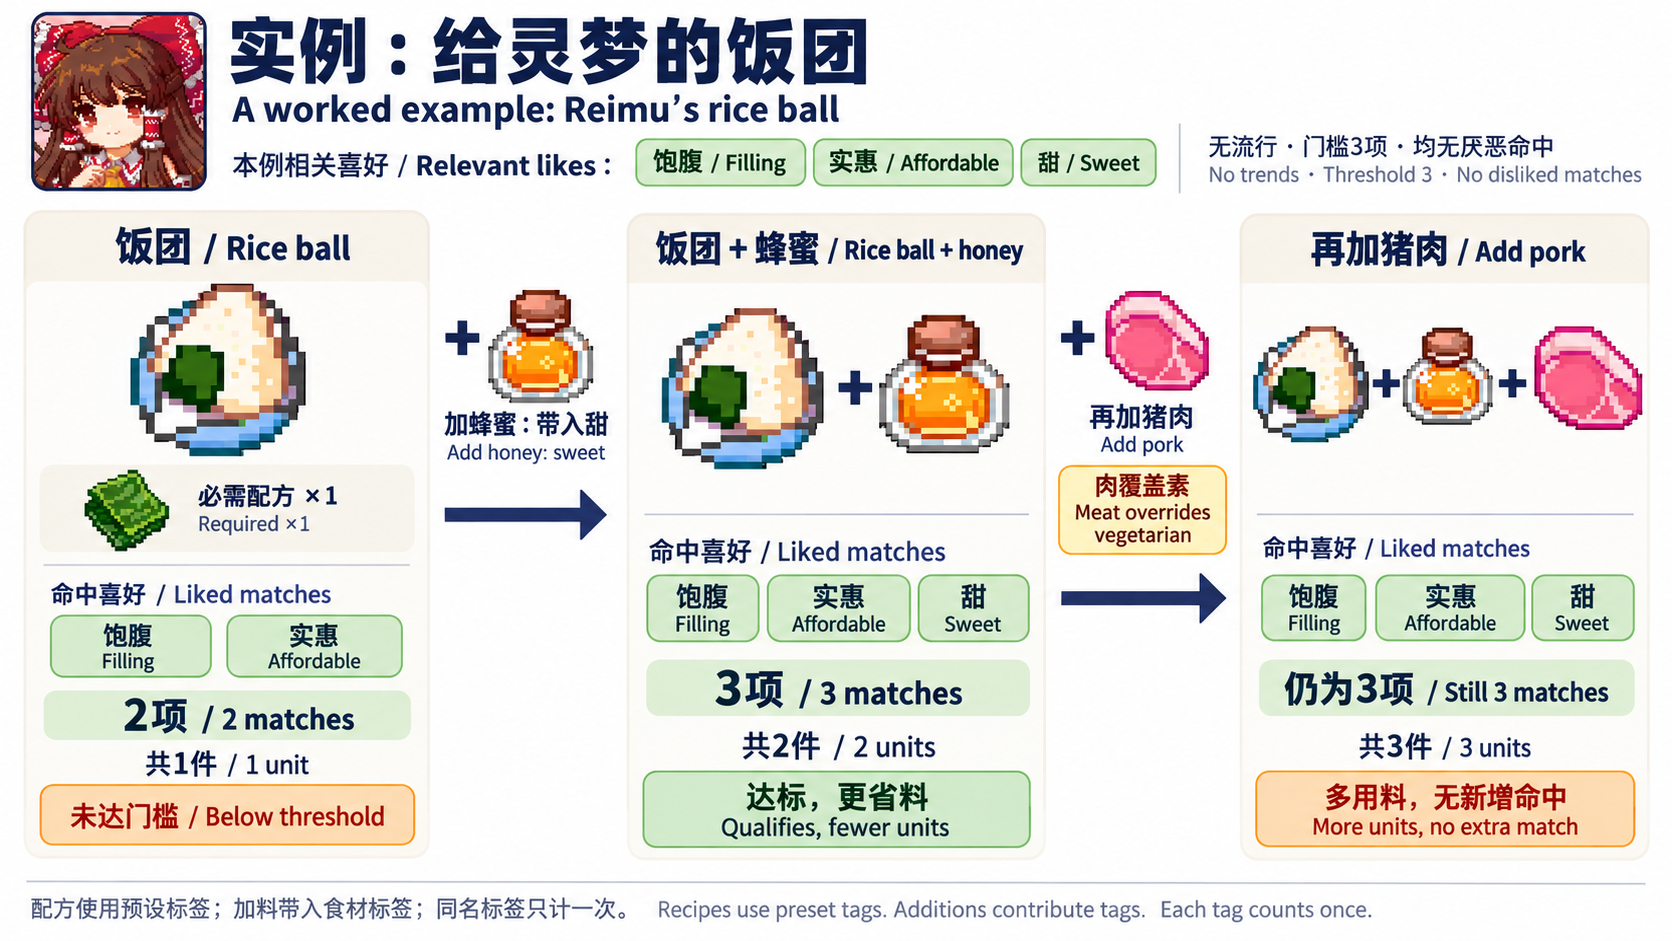
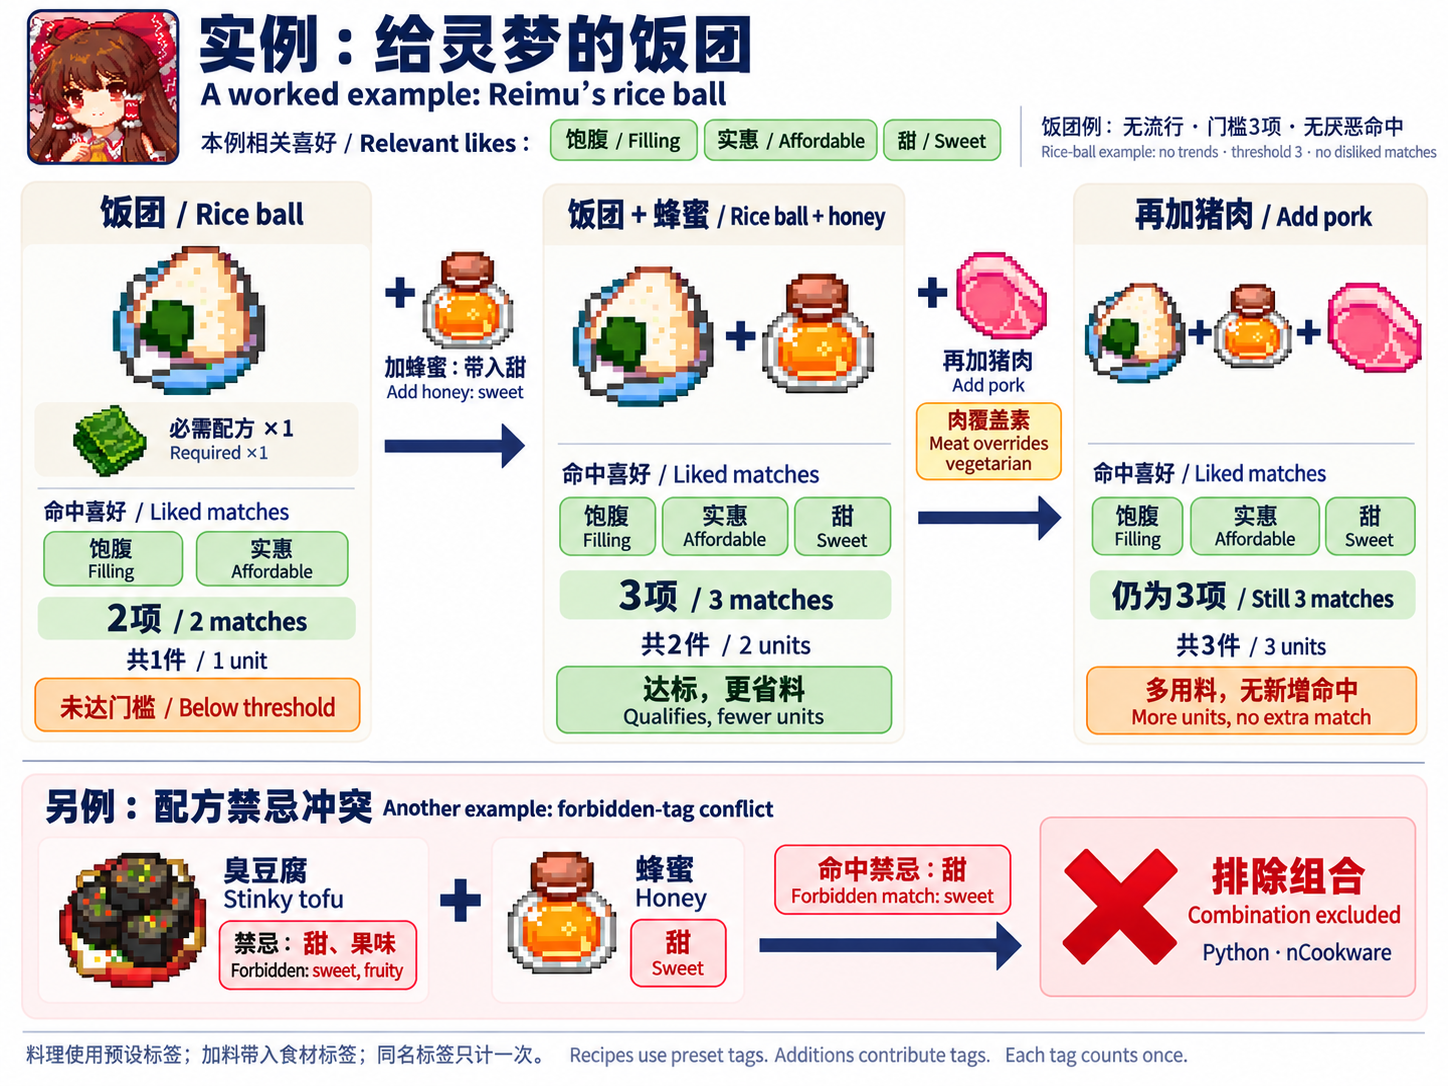
Illustrate a forbidden-tag conflict with stinky tofu and honey

diff --git a/README.md b/README.md
@@ -8,9 +8,9 @@
 
 在[《东方夜雀食堂》](https://store.steampowered.com/app/1584090/)中，玩家通过料理与加料满足顾客偏好。**标签**是“甜”“饱腹”等料理属性，与顾客喜好重合的标签计为命中。本项目比较喜好覆盖、食材件数与供给余量，寻找给定条件下的优先方案。
 
-![图标流程示例：饭团1件命中2项，加蜂蜜后2件命中3项，再加猪肉后3件仍命中3项；肉覆盖素。](docs/images/tag-example.png)
+![图标流程示例：饭团1件命中2项，加蜂蜜后2件命中3项，再加猪肉后3件仍命中3项，肉覆盖素。另例：臭豆腐禁忌甜与果味，蜂蜜带入甜，因此该组合被 Python nCookware 排除。](docs/images/tag-example.png)
 
-*参考游戏图标生成的规则示意，非游戏截图。* 图中均无厌恶命中，门槛为 3 项。基础配方使用料理预设标签；加料带入食材标签，同名只计一次。依据[原工作簿](东方夜雀食堂.xlsx)，**同覆盖先比较件数，件数相同再比较供给余量**。完整规则与求解范围见[模型说明](docs/design.md)。
+*参考游戏图标生成的规则示意，非游戏截图。* 配方与标签依据[原工作簿](东方夜雀食堂.xlsx)。**禁忌过滤示例以 Python `nCookware` 为准**，网页处理差异见[网页使用说明](docs/web-guide.md)。完整规则、目标顺序与求解范围见[模型说明](docs/design.md)。
 
 项目以 Excel 为输入，提供网页查询与 Python 规划。第一章以 `singlePLAN_cover3_mixIng_nCookware.py`（简称 `nCookware`）为例定义数学模型。
 
@@ -274,9 +274,9 @@ python Python/singlePLAN_cover3_mixIng_nCookware.py --help
 
 In [*Touhou Mystia's Izakaya*](https://store.steampowered.com/app/1584090/), players choose dishes and additions to satisfy guest preferences. **Tags** are dish attributes such as sweet or filling; an attribute shared with a guest's likes counts as a match. This project compares preference coverage, ingredient units, and supply slack to rank plans under given conditions.
 
-![Icon-based example flow: a rice ball uses 1 unit for 2 matches; honey raises this to 2 units and 3 matches; adding pork uses 3 units but still matches 3 tags, with meat overriding vegetarian.](docs/images/tag-example.png)
+![Icon-based example flow: a rice ball uses 1 unit for 2 matches; honey raises this to 2 units and 3 matches; adding pork uses 3 units but still matches 3 tags, with meat overriding vegetarian. Separate case: stinky tofu forbids sweet and fruity tags; honey contributes sweet, so Python nCookware excludes the combination.](docs/images/tag-example.png)
 
-*Rule illustration generated with game icons as references, not a game screenshot.* These cases have no disliked matches and use a threshold of 3. Base recipes use preset dish tags; additions contribute ingredient tags, with each distinct tag counted once. Based on the [original workbook](东方夜雀食堂.xlsx), **at equal coverage, minimize ingredient units; when units also tie, compare supply slack**. See the [model documentation](docs/design.md) for full rules and solution scope.
+*Rule illustration generated with game icons as references, not a game screenshot.* Recipes and tags come from the [original workbook](东方夜雀食堂.xlsx). **The forbidden-tag filtering example follows Python `nCookware`**; browser behavior differs as documented in the [browser guide](docs/web-guide.md). See the [model documentation](docs/design.md) for full rules, objective priorities, and solution scope.
 
 The project takes Excel input and provides browser queries and Python planning. Chapter 1 defines the mathematical model using `singlePLAN_cover3_mixIng_nCookware.py` (`nCookware` for short).
 

diff --git a/CHANGELOG.md b/CHANGELOG.md
@@ -1,5 +1,11 @@
 # 变更记录
 
+## 配方禁忌冲突实例
+
+- 在原图标流程图下方补充“臭豆腐＋蜂蜜”的独立冲突分支：蜂蜜带入“甜”，与臭豆腐的配方禁忌相交，组合被排除。
+- 以原工作簿及 Python `nCookware` 的禁忌过滤核对案例；图注注明实现范围，并链接网页处理差异。
+- 更新双语替代文字与图标来源说明；原程序、工作簿及界面保持不变。
+
 ## 图标实例流程
 
 - 将 README 食物插画替换为使用像素图标、加号和箭头的具体加料实例图，展示灵梦饭团从两项命中到三项命中，以及继续加料的取舍。
